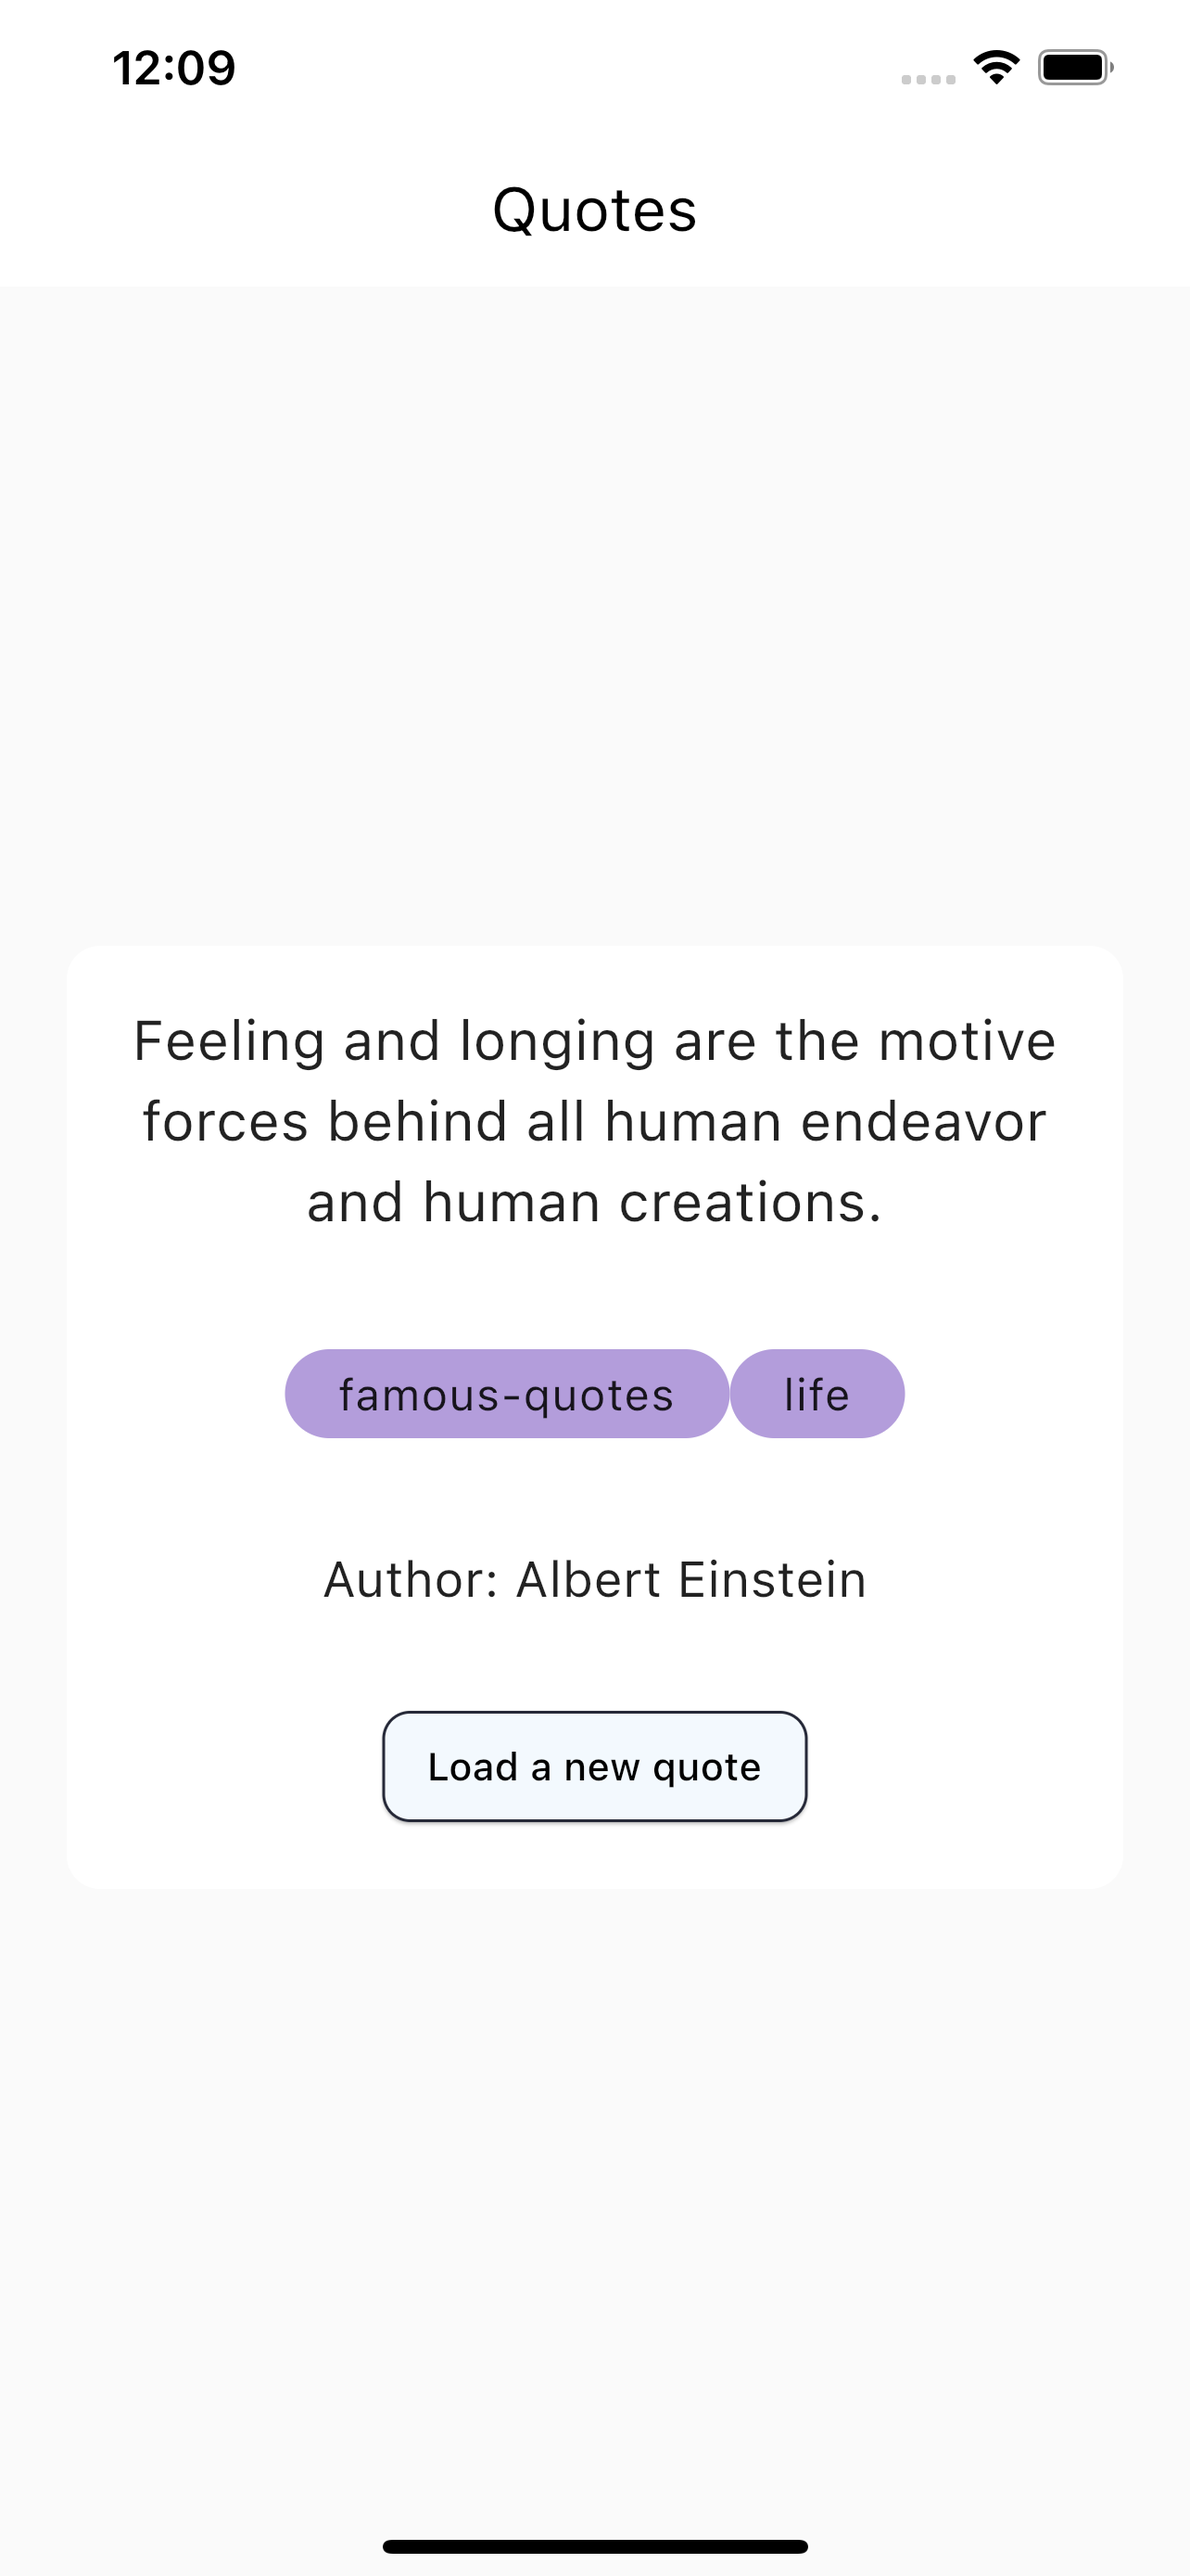
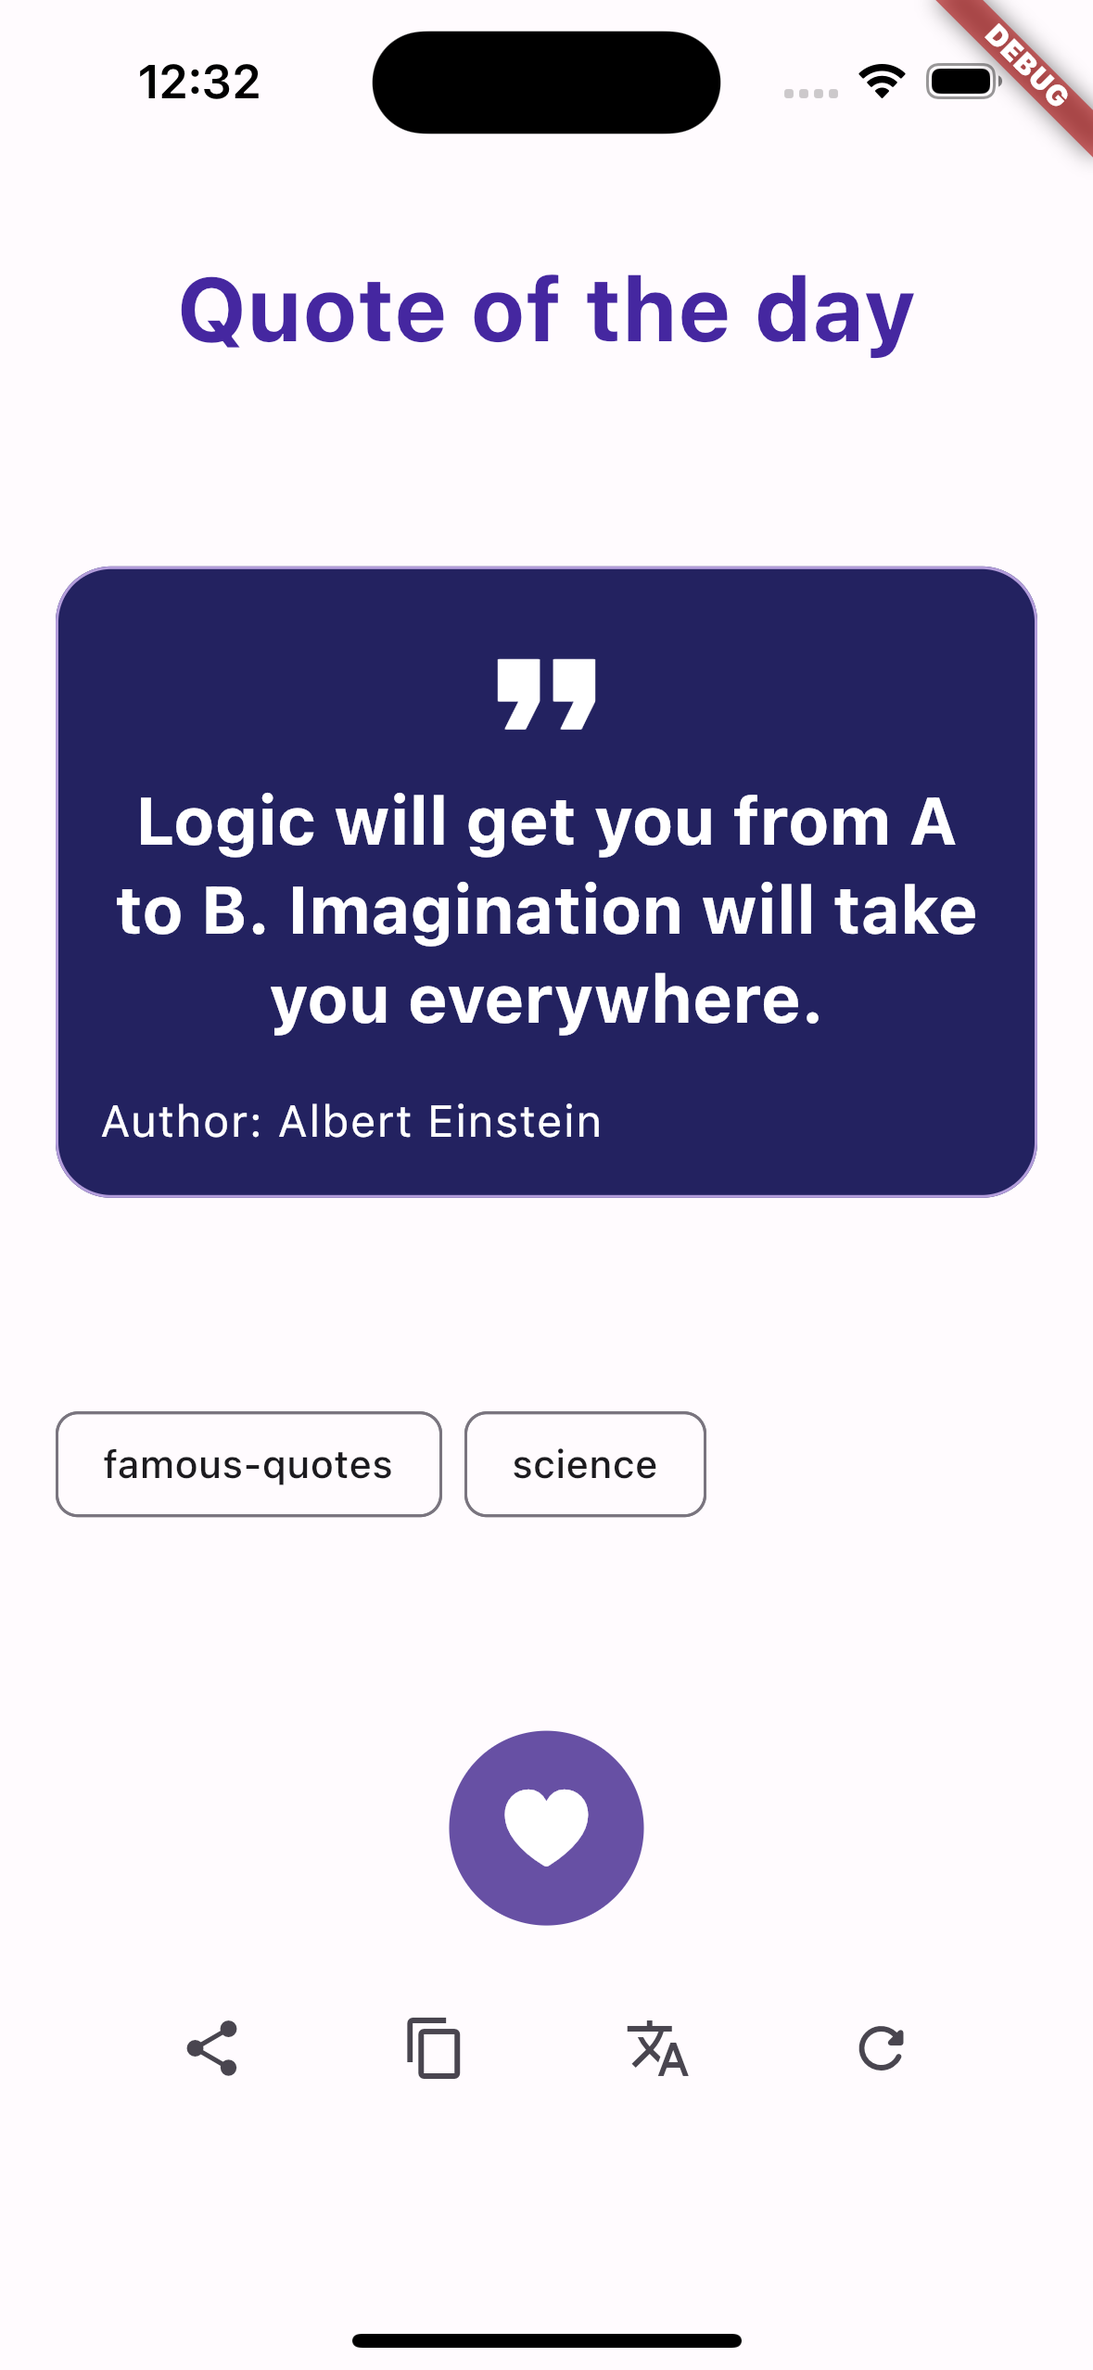
feature: desing quote screen (#3)

diff --git a/lib/features/quotes/ui/widgets/quote_widget.dart b/lib/features/quotes/ui/widgets/quote_widget.dart
@@ -1,90 +1,177 @@
+import 'package:flutter/cupertino.dart';
 import 'package:flutter/material.dart';
+import 'package:flutter/services.dart';
+import 'package:flutter_bloc/flutter_bloc.dart';
 import 'package:flutter_bloc_quotes/models/models.dart';
 
+import '../../../animations/rotate_animation.dart';
+import '../../bloc/quotes_bloc.dart';
+
 class QuoteWidget extends StatelessWidget {
-  const QuoteWidget({Key? key, required this.model, required this.onPressed})
-      : super(key: key);
+  const QuoteWidget({Key? key, required this.model}) : super(key: key);
 
   final QuoteModel model;
-  final void Function() onPressed;
+
+  // final void Function() onPressed;
 
   @override
   Widget build(BuildContext context) {
     return Column(
-      mainAxisAlignment: MainAxisAlignment.center,
+      mainAxisAlignment: MainAxisAlignment.spaceEvenly,
+      crossAxisAlignment: CrossAxisAlignment.stretch,
       children: [
-        Padding(
-          padding: const EdgeInsets.only(bottom: 10.0),
-          child: Card(
-            elevation: 0,
-            child: Padding(
-              padding: const EdgeInsets.all(20.0),
-              child: Column(
-                children: [
-                  Padding(
-                    padding: const EdgeInsets.only(bottom: 30.0),
-                    child: Text(
-                      model.content,
-                      textAlign: TextAlign.center,
-                      style: const TextStyle(fontSize: 20),
-                    ),
-                  ),
-                  Padding(
-                    padding: const EdgeInsets.only(bottom: 30.0),
-                    child: Wrap(
-                      children: [
-                        for (var tag in model.tags)
-                        Chip(
-                          label: Text(tag),
-                          labelPadding: const EdgeInsets.symmetric(horizontal: 15),
-                          backgroundColor: Colors.deepPurple.shade200,
-                        ),
-                      ],
-                      // child: Text(
-                      //   tagsToString(model.tags),
-                      //   textAlign: TextAlign.center,
-                      //   style: const TextStyle(fontSize: 18),
-                      // ),
-                    ),
-                  ),
-                  Padding(
-                    padding: const EdgeInsets.only(bottom: 30.0),
-                    child: Text(
-                      'Author: ${model.author}',
-                      textAlign: TextAlign.center,
-                      style: const TextStyle(fontSize: 18),
-                    ),
-                  ),
-                  ElevatedButton(
-                    onPressed: onPressed,
-                    style: ButtonStyle(
-                      foregroundColor:
-                          MaterialStateProperty.all<Color>(Colors.black),
-                      shape: MaterialStateProperty.all<OutlinedBorder>(
-                        RoundedRectangleBorder(
-                          borderRadius: BorderRadius.circular(10),
-                          side: const BorderSide(
-                            color: Color(0xff262938),
-                          ),
-                        ),
-                      ),
-                    ),
-                    child: const Text('Load a new quote'),
-                  )
-                ],
+        Text(
+          'Quote of the day',
+          textAlign: TextAlign.center,
+          style: Theme.of(context).textTheme.headlineLarge?.copyWith(
+                color: Colors.deepPurple.shade800,
+                fontWeight: FontWeight.bold,
               ),
+        ),
+        Container(
+          padding: const EdgeInsets.all(15),
+          decoration: BoxDecoration(
+            borderRadius: BorderRadius.circular(20),
+            color: const Color(0xff232260),
+            border: Border.all(
+              color: Colors.deepPurple.shade200,
             ),
           ),
-        )
+          child: Column(
+            crossAxisAlignment: CrossAxisAlignment.start,
+            children: [
+              const Center(
+                child: Icon(
+                  Icons.format_quote,
+                  color: Colors.white,
+                  size: 60,
+                ),
+              ),
+              Text(
+                model.content,
+                textAlign: TextAlign.center,
+                style: Theme.of(context).textTheme.headlineSmall?.copyWith(
+                      color: Colors.white,
+                      fontWeight: FontWeight.bold,
+                    ),
+              ),
+              const SizedBox(height: 15),
+              Text('Author: ${model.author}',
+                  textAlign: TextAlign.center,
+                  style: Theme.of(context).textTheme.bodyLarge?.copyWith(
+                        color: Colors.white,
+                      )),
+            ],
+          ),
+        ),
+        Wrap(
+          spacing: 8,
+          children: [
+            for (var tag in model.tags)
+              Chip(
+                label: Text(tag),
+              ),
+          ],
+        ),
+        QuoteOptions(model: model),
       ],
     );
   }
+}
 
-  String tagsToString(List<String> tags) {
-    String tagsString = '';
-    for (String tag in tags) {
-      tagsString += ' $tag -';
-    }
-    return tagsString.substring(0, tagsString.length - 1);
+class QuoteOptions extends StatelessWidget {
+  const QuoteOptions({Key? key, required this.model}) : super(key: key);
+
+  final QuoteModel model;
+
+  @override
+  Widget build(BuildContext context) {
+    return Column(
+      mainAxisAlignment: MainAxisAlignment.spaceAround,
+      children: [
+        const _HeartIconButton(),
+        const SizedBox(height: 20),
+        Row(
+          mainAxisAlignment: MainAxisAlignment.spaceEvenly,
+          children: [
+            _QuoteIconButton(
+              iconData: Icons.share,
+              onPressed: () {
+                print('Share quote: ${model.content} Author: ${model.author}');
+              },
+            ),
+            _QuoteIconButton(
+              iconData: Icons.copy,
+              onPressed: () {
+                /// Copy to clipboard
+                final data = ClipboardData(
+                  text: 'Quote: ${model.content} Author: ${model.author}',
+                );
+                Clipboard.setData(data);
+              },
+            ),
+            _QuoteIconButton(iconData: Icons.translate, onPressed: () {}),
+            _QuoteIconButton(
+              iconData: Icons.refresh_rounded,
+              onPressed: () {
+                /// Refresh quote
+                context.read<QuotesBloc>().add(LoadQuotesEvent());
+              },
+            ),
+          ],
+        ),
+      ],
+    );
+  }
+}
+
+class _QuoteIconButton extends StatelessWidget {
+  const _QuoteIconButton({
+    Key? key,
+    required this.iconData,
+    required this.onPressed,
+  }) : super(key: key);
+
+  final IconData iconData;
+  final Function()? onPressed;
+
+  @override
+  Widget build(BuildContext context) {
+    return IconButton(
+      onPressed: onPressed,
+      icon: Icon(iconData),
+    );
+  }
+}
+
+class _HeartIconButton extends StatelessWidget {
+  const _HeartIconButton({Key? key}) : super(key: key);
+
+  @override
+  Widget build(BuildContext context) {
+    return Container(
+      width: 70,
+      height: 70,
+      decoration: BoxDecoration(
+        color: Theme.of(context).primaryColor,
+        shape: BoxShape.circle,
+      ),
+      child: IconButton(
+        onPressed: () {
+          /// Add to favorites
+        },
+        icon: const RotateAnimation(
+          child: AnimatedScale(
+            scale: 1.5,
+            curve: Curves.bounceInOut,
+            duration: Duration(milliseconds: 300),
+            child: Icon(
+              CupertinoIcons.heart_fill,
+              color: Colors.white,
+            ),
+          ),
+        ),
+      ),
+    );
   }
 }

diff --git a/lib/features/quotes/ui/home_screen.dart b/lib/features/quotes/ui/home_screen.dart
@@ -10,11 +10,6 @@ class HomeScreen extends StatelessWidget {
   @override
   Widget build(BuildContext context) {
     return Scaffold(
-      appBar: AppBar(
-        backgroundColor: Colors.white,
-        title: const Text('Quotes'),
-        centerTitle: true,
-      ),
       body: BlocProvider<QuotesBloc>(
         create: (context) =>
             QuotesBloc(RepositoryProvider.of<QuotesRepository>(context))
@@ -32,8 +27,8 @@ class HomeScreen extends StatelessWidget {
                 } else if (state is QuoteLoadState) {
                   return QuoteWidget(
                     model: state.model,
-                    onPressed: () =>
-                        context.read<QuotesBloc>().add(LoadQuotesEvent()),
+                    // onPressed: () =>
+                    //     context.read<QuotesBloc>().add(LoadQuotesEvent()),
                   );
                 }
                 return const CircularProgressIndicator.adaptive();

diff --git a/lib/app/app.dart b/lib/app/app.dart
@@ -2,7 +2,7 @@ import 'package:flutter/material.dart';
 import 'package:flutter_bloc/flutter_bloc.dart';
 
 import 'package:flutter_bloc_quotes/features/quotes/repository/quote_repository.dart';
-import 'package:flutter_bloc_quotes/features/quotes/ui/HomeScreen.dart';
+import 'package:flutter_bloc_quotes/features/quotes/ui/home_screen.dart';
 
 class MyApp extends StatelessWidget {
   const MyApp({Key? key}) : super(key: key);
@@ -12,10 +12,7 @@ class MyApp extends StatelessWidget {
     return RepositoryProvider(
       create: (context) => QuotesRepository(),
       child: MaterialApp(
-        debugShowCheckedModeBanner: false,
-        theme: ThemeData(
-          useMaterial3: true,
-        ),
+        theme: ThemeData(useMaterial3: true),
         home: const HomeScreen(),
       ),
     );

diff --git a/lib/features/animations/rotate_animation.dart b/lib/features/animations/rotate_animation.dart
@@ -1,0 +1,26 @@
+import 'dart:math';
+
+import 'package:flutter/material.dart';
+
+class RotateAnimation extends StatelessWidget {
+  const RotateAnimation({
+    Key? key,
+    required this.child,
+  }) : super(key: key);
+
+  final Widget child;
+
+  @override
+  Widget build(BuildContext context) {
+    return TweenAnimationBuilder<double>(
+      tween: Tween(begin: 1.5, end: 0),
+      duration: const Duration(seconds: 1),
+      curve: Curves.easeInOutBack,
+      builder: (_, value, child) => Transform.rotate(
+        angle: pi * value,
+        child: child,
+      ),
+      child: child,
+    );
+  }
+}

diff --git a/lib/models/quote_model.dart b/lib/models/quote_model.dart
@@ -11,7 +11,7 @@ class QuoteModel {
   final String author;
   final int length;
   final String dateAdded;
-  final String dateModified;
+    final String dateModified;
 
   const QuoteModel(this.id, this.tags, this.content, this.author, this.length,
       this.dateAdded, this.dateModified);

diff --git a/lib/features/animations/animations.dart b/lib/features/animations/animations.dart
@@ -1,0 +1,1 @@
+export 'rotate_animation.dart';

diff --git a/README.md b/README.md
@@ -1,3 +1,3 @@
 # Flutter BloC Quotes
 
-<img height="700" src="https://user-images.githubusercontent.com/46093689/175871583-65d40473-0489-4508-908c-3bf8f7614b21.png"/>
+<img height="700" src="docs/quote.png"/>
